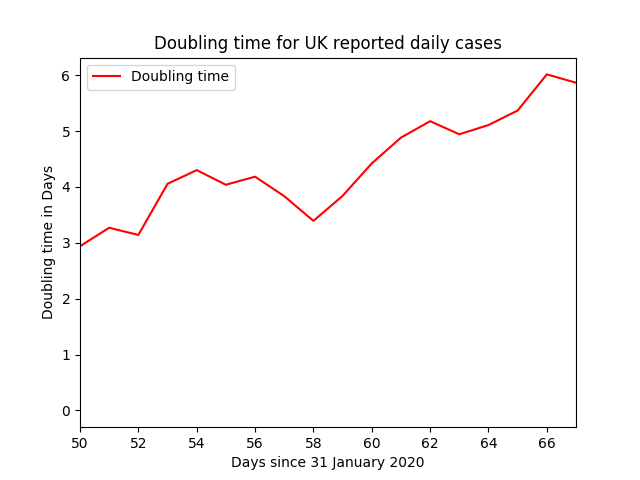
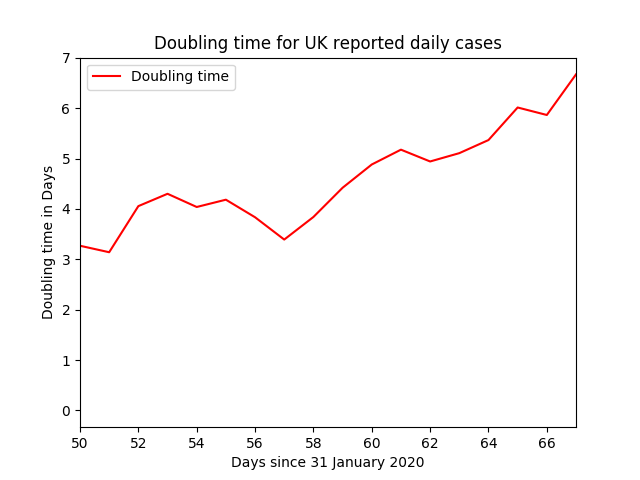
Daily run

diff --git a/src/curvefit.py b/src/curvefit.py
@@ -43,10 +43,11 @@ def exp_fit(DailyCases, Days, pDays):
     return Ans, Param, Param_cov
 
 def doubling_time(DailyCases, Days):
+    print (Days)
     dt = [0.0] * len(Days)
     for i in range(doublingTimeStart-1,len(Days)):
-        cases = DailyCases[0:i]
-        caseDays = Days[0:i]
+        cases = DailyCases[0:i+1]
+        caseDays = Days[0:i+1]
         #Ans, Param, Param_cov = exp_fit(cases, caseDays, pDays)
         Param, Param_cov = curve_fit(test, caseDays, cases)
         dt[i] = np.log(2)/np.log(Param[1])

diff --git a/README.md b/README.md
@@ -31,13 +31,15 @@ Output Details
 <h4>Covariance of coefficients</h4>
 [[ 3.86025033e+00 -1.30502419e-02]
  [-1.30502419e-02  4.43777485e-05]]
+[1.0, 2.0, 3.0, 4.0, 5.0, 6.0, 7.0, 8.0, 9.0, 10.0, 11.0, 12.0, 13.0, 14.0, 15.0, 16.0, 17.0, 18.0, 19.0, 20.0, 21.0, 22.0, 23.0, 24.0, 25.0, 26.0, 27.0, 28.0, 29.0, 30.0, 31.0, 32.0, 33.0, 34.0, 35.0, 36.0, 37.0, 38.0, 39.0, 40.0, 41.0, 42.0, 43.0, 44.0, 45.0, 46.0, 47.0, 48.0, 49.0, 50.0, 51.0, 52.0, 53.0, 54.0, 55.0, 56.0, 57.0, 58.0, 59.0, 60.0, 61.0, 62.0, 63.0, 64.0, 65.0, 66.0, 67.0]
 <h3>Exponential function coefficients for daily deaths</h3>
 [0.09354941 1.14321792]
 <h4>Covariance of coefficients</h4>
 [[ 0.00434141 -0.00082906]
  [-0.00082906  0.00015886]] <br/>
+[1.0, 2.0, 3.0, 4.0, 5.0, 6.0, 7.0, 8.0, 9.0, 10.0, 11.0, 12.0, 13.0, 14.0, 15.0, 16.0, 17.0, 18.0, 19.0, 20.0, 21.0, 22.0, 23.0, 24.0, 25.0, 26.0, 27.0, 28.0, 29.0, 30.0, 31.0, 32.0, 33.0, 34.0, 35.0, 36.0, 37.0, 38.0, 39.0, 40.0, 41.0, 42.0, 43.0, 44.0, 45.0, 46.0, 47.0, 48.0, 49.0, 50.0, 51.0, 52.0, 53.0, 54.0, 55.0, 56.0, 57.0, 58.0, 59.0, 60.0, 61.0, 62.0, 63.0, 64.0, 65.0, 66.0, 67.0]
 <h3>Best offset and factor for third graph</h3>
 7 25%
 <h4>Average Error</h4>
 17.60
-<br /><br />Last updated on 2020-04-06 15:56:06.801717
+<br /><br />Last updated on 2020-04-06 22:22:22.246970

diff --git a/out/fit.md b/out/fit.md
@@ -3,13 +3,15 @@
 <h4>Covariance of coefficients</h4>
 [[ 3.86025033e+00 -1.30502419e-02]
  [-1.30502419e-02  4.43777485e-05]]
+[1.0, 2.0, 3.0, 4.0, 5.0, 6.0, 7.0, 8.0, 9.0, 10.0, 11.0, 12.0, 13.0, 14.0, 15.0, 16.0, 17.0, 18.0, 19.0, 20.0, 21.0, 22.0, 23.0, 24.0, 25.0, 26.0, 27.0, 28.0, 29.0, 30.0, 31.0, 32.0, 33.0, 34.0, 35.0, 36.0, 37.0, 38.0, 39.0, 40.0, 41.0, 42.0, 43.0, 44.0, 45.0, 46.0, 47.0, 48.0, 49.0, 50.0, 51.0, 52.0, 53.0, 54.0, 55.0, 56.0, 57.0, 58.0, 59.0, 60.0, 61.0, 62.0, 63.0, 64.0, 65.0, 66.0, 67.0]
 <h3>Exponential function coefficients for daily deaths</h3>
 [0.09354941 1.14321792]
 <h4>Covariance of coefficients</h4>
 [[ 0.00434141 -0.00082906]
  [-0.00082906  0.00015886]] <br/>
+[1.0, 2.0, 3.0, 4.0, 5.0, 6.0, 7.0, 8.0, 9.0, 10.0, 11.0, 12.0, 13.0, 14.0, 15.0, 16.0, 17.0, 18.0, 19.0, 20.0, 21.0, 22.0, 23.0, 24.0, 25.0, 26.0, 27.0, 28.0, 29.0, 30.0, 31.0, 32.0, 33.0, 34.0, 35.0, 36.0, 37.0, 38.0, 39.0, 40.0, 41.0, 42.0, 43.0, 44.0, 45.0, 46.0, 47.0, 48.0, 49.0, 50.0, 51.0, 52.0, 53.0, 54.0, 55.0, 56.0, 57.0, 58.0, 59.0, 60.0, 61.0, 62.0, 63.0, 64.0, 65.0, 66.0, 67.0]
 <h3>Best offset and factor for third graph</h3>
 7 25%
 <h4>Average Error</h4>
 17.60
-<br /><br />Last updated on 2020-04-06 15:56:06.801717
+<br /><br />Last updated on 2020-04-06 22:22:22.246970
